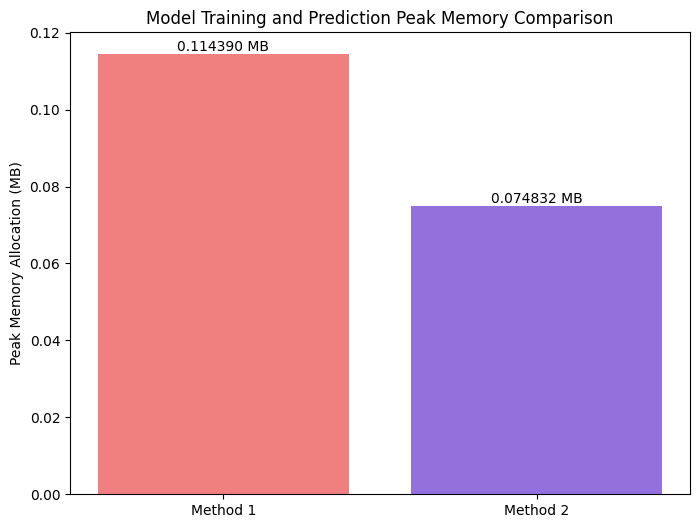
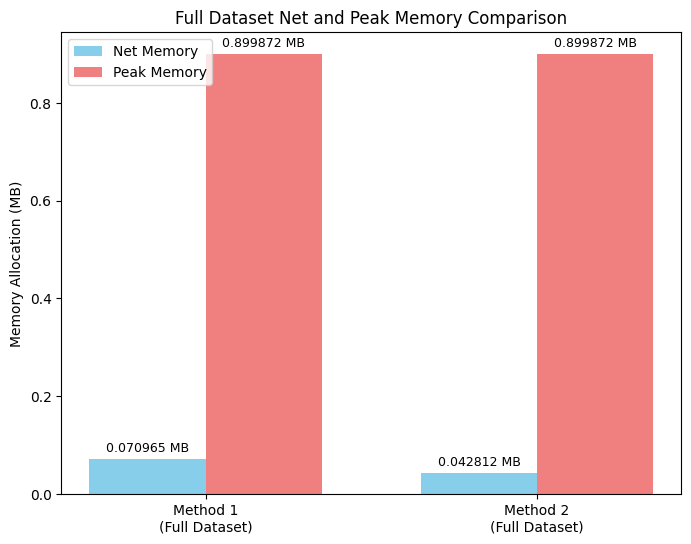
character

diff --git a/process_memory.py b/process_memory.py
@@ -18,34 +18,34 @@ def compare_training_memory():
         print("Make sure the 'uploaded' directory contains the expected data.")
         return
 
-    print("Extracting features for Method 1...")
+    print("\n--- Running Method 1 Pipeline ---")
+    print("Extracting features and training model...")
     features1, labels1 = fe1(raw_data_features, raw_data_labels, timestamps)
-
-    print("Extracting features for Method 2...")
-    features2, labels2 = fe2(raw_data_features, raw_data_labels, timestamps)
-
-    iterations = 50
-
-    print(f"\nBenchmarking model training and prediction memory over {iterations} iterations...")
-
-    # Benchmark Method 1
     clf1 = DecisionTreeClassifier()
+    clf1.fit(features1, labels1.ravel())
+
+    print("Benchmarking FULL DATASET feature extraction + inference memory...")
     tracemalloc.start()
-    for _ in range(iterations):
-        clf1.fit(features1, labels1.ravel())
-        clf1.predict(features1)
-    _, peak1 = tracemalloc.get_traced_memory()
+    f1_full, _ = fe1(raw_data_features, raw_data_labels, timestamps)
+    clf1.predict(f1_full)
+    current1, peak1 = tracemalloc.get_traced_memory()
     tracemalloc.stop()
+    current_mb_1 = current1 / (1024 * 1024)
     peak_mb_1 = peak1 / (1024 * 1024)
 
-    # Benchmark Method 2
+    print("\n--- Running Method 2 Pipeline ---")
+    print("Extracting features and training model...")
+    features2, labels2 = fe2(raw_data_features, raw_data_labels, timestamps)
     clf2 = DecisionTreeClassifier()
+    clf2.fit(features2, labels2.ravel())
+
+    print("Benchmarking FULL DATASET feature extraction + inference memory...")
     tracemalloc.start()
-    for _ in range(iterations):
-        clf2.fit(features2, labels2.ravel())
-        clf2.predict(features2)
-    _, peak2 = tracemalloc.get_traced_memory()
+    f2_full, _ = fe2(raw_data_features, raw_data_labels, timestamps)
+    clf2.predict(f2_full)
+    current2, peak2 = tracemalloc.get_traced_memory()
     tracemalloc.stop()
+    current_mb_2 = current2 / (1024 * 1024)
     peak_mb_2 = peak2 / (1024 * 1024)
 
     print("\n" + "="*50)
@@ -54,33 +54,63 @@ def compare_training_memory():
     print(f"Method 1 (first_process_character) features shape:  {features1.shape}")
     print(f"Method 2 (second_processing_character) features shape: {features2.shape}")
     print("-"*50)
+    print(f"Method 1 Net Memory Allocation:  {current_mb_1:.6f} MB")
     print(f"Method 1 Peak Memory Allocation: {peak_mb_1:.6f} MB")
+    print(f"Method 2 Net Memory Allocation:  {current_mb_2:.6f} MB")
     print(f"Method 2 Peak Memory Allocation: {peak_mb_2:.6f} MB")
     print("="*50)
 
+    print("\n--- Peak Memory Comparison ---")
     if peak_mb_1 > peak_mb_2:
         ratio = peak_mb_1 / peak_mb_2 if peak_mb_2 > 0 else float('inf')
-        print(f"Method 2 uses {ratio:.2f}x less memory than Method 1.")
+        print(f"Method 2 uses {ratio:.2f}x less PEAK memory than Method 1 on full dataset.")
     elif peak_mb_2 > peak_mb_1:
         ratio = peak_mb_2 / peak_mb_1 if peak_mb_1 > 0 else float('inf')
-        print(f"Method 1 uses {ratio:.2f}x less memory than Method 2.")
+        print(f"Method 1 uses {ratio:.2f}x less PEAK memory than Method 2 on full dataset.")
     else:
-        print("Both methods use the same amount of memory.")
+        print("Both methods use the same amount of peak memory.")
+
+    print("\n--- Net (Total Process) Memory Comparison ---")
+    if current_mb_1 > current_mb_2:
+        ratio = current_mb_1 / current_mb_2 if current_mb_2 > 0 else float('inf')
+        print(f"Method 2 uses {ratio:.2f}x less NET memory than Method 1 on full dataset.")
+    elif current_mb_2 > current_mb_1:
+        ratio = current_mb_2 / current_mb_1 if current_mb_1 > 0 else float('inf')
+        print(f"Method 1 uses {ratio:.2f}x less NET memory than Method 2 on full dataset.")
+    else:
+        print("Both methods use the same amount of net memory.")
 
     # Visualization
-    methods = ['Method 1', 'Method 2']
-    memory_usage = [peak_mb_1, peak_mb_2]
+    import numpy as np
+    labels = ['Method 1\n(Full Dataset)', 'Method 2\n(Full Dataset)']
+    current_usage = [current_mb_1, current_mb_2]
+    peak_usage = [peak_mb_1, peak_mb_2]
 
-    plt.figure(figsize=(8, 6))
-    bars = plt.bar(methods, memory_usage, color=['lightcoral', 'mediumpurple'])
-    plt.ylabel('Peak Memory Allocation (MB)')
-    plt.title('Model Training and Prediction Peak Memory Comparison')
+    x = np.arange(len(labels))
+    width = 0.35
+
+    fig, ax = plt.subplots(figsize=(8, 6))
+    rects1 = ax.bar(x - width/2, current_usage, width, label='Net Memory', color='skyblue')
+    rects2 = ax.bar(x + width/2, peak_usage, width, label='Peak Memory', color='lightcoral')
+
+    ax.set_ylabel('Memory Allocation (MB)')
+    ax.set_title('Full Dataset Net and Peak Memory Comparison')
+    ax.set_xticks(x)
+    ax.set_xticklabels(labels)
+    ax.legend()
 
     # Add values on top of bars
-    for bar in bars:
-        yval = bar.get_height()
-        plt.text(bar.get_x() + bar.get_width()/2, yval, f'{yval:.6f} MB',
-                 ha='center', va='bottom', fontsize=10)
+    def autolabel(rects):
+        for rect in rects:
+            height = rect.get_height()
+            ax.annotate(f'{height:.6f} MB',
+                        xy=(rect.get_x() + rect.get_width() / 2, height),
+                        xytext=(0, 3),
+                        textcoords="offset points",
+                        ha='center', va='bottom', fontsize=9)
+
+    autolabel(rects1)
+    autolabel(rects2)
 
     os.makedirs('./process_time', exist_ok=True)
     save_path = './process_time/processing_memory_table.png'
@@ -90,4 +120,3 @@ def compare_training_memory():
 
 if __name__ == "__main__":
     compare_training_memory()
-

diff --git a/time.py b/time.py
@@ -18,59 +18,55 @@ def compare_training_time():
         print("Make sure the 'uploaded' directory contains the expected data.")
         return
 
-    print("Extracting features for Method 1...")
+    print("\n--- Running Method 1 Pipeline ---")
+    print("Extracting features and training model...")
     features1, labels1 = fe1(raw_data_features, raw_data_labels, timestamps)
-
-    print("Extracting features for Method 2...")
-    features2, labels2 = fe2(raw_data_features, raw_data_labels, timestamps)
-
-    # Define models
     clf1 = DecisionTreeClassifier()
-    clf2 = DecisionTreeClassifier()
+    clf1.fit(features1, labels1.ravel())
 
-    iterations = 50
-
-    print(f"\nBenchmarking model training and prediction time over {iterations} iterations...")
-
-    # Benchmark Method 1
+    print("Benchmarking FULL DATASET feature extraction + inference...")
     start_time_1 = time.time()
-    for _ in range(iterations):
-        clf1.fit(features1, labels1.ravel())
-        clf1.predict(features1)
+    f1_full, _ = fe1(raw_data_features, raw_data_labels, timestamps)
+    clf1.predict(f1_full)
     end_time_1 = time.time()
-    avg_time_1 = (end_time_1 - start_time_1) / iterations
+    avg_time_1 = end_time_1 - start_time_1
 
-    # Benchmark Method 2
+    print("\n--- Running Method 2 Pipeline ---")
+    print("Extracting features and training model...")
+    features2, labels2 = fe2(raw_data_features, raw_data_labels, timestamps)
+    clf2 = DecisionTreeClassifier()
+    clf2.fit(features2, labels2.ravel())
+
+    print("Benchmarking FULL DATASET feature extraction + inference...")
     start_time_2 = time.time()
-    for _ in range(iterations):
-        clf2.fit(features2, labels2.ravel())
-        clf2.predict(features2)
+    f2_full, _ = fe2(raw_data_features, raw_data_labels, timestamps)
+    clf2.predict(f2_full)
     end_time_2 = time.time()
-    avg_time_2 = (end_time_2 - start_time_2) / iterations
+    avg_time_2 = end_time_2 - start_time_2
 
     print("\n" + "="*50)
     print("                   TIME COMPARISON")
     print("="*50)
-    print(f"Method 1 (first_process_character) features shape:  {features1.shape}")
-    print(f"Method 2 (second_processing_character) features shape: {features2.shape}")
+    print(f"Method 1 full features shape:  {features1.shape}")
+    print(f"Method 2 full features shape: {features2.shape}")
     print("-"*50)
-    print(f"Method 1 Avg Model (Train + Predict) Time: {avg_time_1:.6f} seconds")
-    print(f"Method 2 Avg Model (Train + Predict) Time: {avg_time_2:.6f} seconds")
+    print(f"Method 1 Full Dataset (Extract + Predict) Time: {avg_time_1:.6f} seconds")
+    print(f"Method 2 Full Dataset (Extract + Predict) Time: {avg_time_2:.6f} seconds")
     print("="*50)
 
     if avg_time_1 > avg_time_2:
-        print(f"Method 2 is {(avg_time_1/avg_time_2):.2f}x faster than Method 1.")
+        print(f"Method 2 is {(avg_time_1/avg_time_2):.2f}x faster than Method 1 on full dataset.")
     elif avg_time_2 > avg_time_1:
-        print(f"Method 1 is {(avg_time_2/avg_time_1):.2f}x faster than Method 2.")
+        print(f"Method 1 is {(avg_time_2/avg_time_1):.2f}x faster than Method 2 on full dataset.")
 
     # Visualization
-    methods = ['Method 1', 'Method 2']
+    methods = ['Method 1\n(Full Dataset)', 'Method 2\n(Full Dataset)']
     times = [avg_time_1, avg_time_2]
 
     plt.figure(figsize=(8, 6))
     bars = plt.bar(methods, times, color=['skyblue', 'lightgreen'])
-    plt.ylabel('Average Time (Seconds)')
-    plt.title('Model Training and Prediction Time Comparison')
+    plt.ylabel('Total Time (Seconds)')
+    plt.title('Full Dataset Total Time (Extract + Predict)')
 
     # Add values on top of bars
     for bar in bars:

diff --git a/second_processing_character.py b/second_processing_character.py
@@ -1,8 +1,6 @@
 import os
 import numpy as np
-import matplotlib.pyplot as plt
 from collections import Counter
-from sklearn.ensemble import RandomForestClassifier
 
 def feature_extraction(raw_data_features, raw_data_labels, timestamps):
   """    raw_data_features: The fourth column is the barometer data.
@@ -62,87 +60,3 @@ def feature_extraction(raw_data_features, raw_data_labels, timestamps):
       labels = np.append(labels, [label], axis=0)
 
   return features, labels
-
-
-def plot_extracted_features(features, labels):
-  """ This function plots the extracted features. The top plot is the slope of accelerometer X-axis data.
-      The middle plot is the slope of barometric pressure data. The bottom plot is the activity label.
-  """
-  plt.figure(figsize=(12, 15))
-
-  # Plot the acceleration X axis slope
-  plt.subplot(6, 1, 1)
-  plt.plot(features[:, 0], label='X-Slope', color='blue')
-  plt.legend(loc='upper right', fontsize=8)
-  plt.xticks(fontsize=8)
-  plt.yticks(fontsize=8)
-  plt.ylabel('Slope', fontsize=8)
-  plt.gca().set_title('Slope of Accelerometer X-axis', fontsize=8)
-
-  # Plot the acceleration Y axis slope
-  plt.subplot(6, 1, 2)
-  plt.plot(features[:, 1], label='Y-Slope', color='cyan')
-  plt.legend(loc='upper right', fontsize=8)
-  plt.xticks(fontsize=8)
-  plt.yticks(fontsize=8)
-  plt.ylabel('Slope', fontsize=8)
-  plt.gca().set_title('Slope of Accelerometer Y-axis', fontsize=8)
-
-  # Plot the acceleration Z axis slope
-  plt.subplot(6, 1, 3)
-  plt.plot(features[:, 2], label='Z-Slope', color='magenta')
-  plt.legend(loc='upper right', fontsize=8)
-  plt.xticks(fontsize=8)
-  plt.yticks(fontsize=8)
-  plt.ylabel('Slope', fontsize=8)
-  plt.gca().set_title('Slope of Accelerometer Z-axis', fontsize=8)
-
-  # Plot the barometer slope
-  plt.subplot(6, 1, 4)
-  plt.plot(features[:, -1], color='orange')
-  plt.xticks(fontsize=8)
-  plt.yticks(fontsize=8)
-  plt.ylabel('mbar/s', fontsize=8)
-  plt.gca().set_title('Rate of Change of Barometric Pressure (Slope)', fontsize=8)
-
-  # Plot one of the FFT Equal Band Powers
-  plt.subplot(6, 1, 5)
-  plt.plot(features[:, 3], color='green')
-  plt.xticks(fontsize=8)
-  plt.yticks(fontsize=8)
-  plt.ylabel('FFT Power', fontsize=8)
-  plt.gca().set_title('FFT Equispaced Band Power (First Band)', fontsize=8)
-
-  plt.subplot(6, 1, 6)
-  plt.plot(labels, color='red')
-  plt.xticks(fontsize=8)
-  plt.yticks(fontsize=8)
-  plt.ylabel('Activity', fontsize=8)
-  plt.gca().set_title('Activity Label', fontsize=8)
-  plt.grid(True)
-  plt.tight_layout()
-
-  os.makedirs('./data_processing', exist_ok=True)
-  plt.savefig('./data_processing/extracted_features.png', bbox_inches='tight')
-  plt.show()
-
-
-def plot_feature_importances(features, labels):
-    clf = RandomForestClassifier(n_estimators=100, random_state=42)
-    clf.fit(features, labels.ravel())
-    importances = clf.feature_importances_
-
-    feature_names = ['X-Slope', 'Y-Slope', 'Z-Slope'] + [f'FFT Band {i}' for i in range(features.shape[1]-4)] + ['Barometer Slope']
-
-    plt.figure(figsize=(10, 6))
-    indices = np.argsort(importances)
-    plt.barh(range(len(indices)), importances[indices], align='center', color='skyblue')
-    plt.yticks(range(len(indices)), [feature_names[i] for i in indices])
-    plt.xlabel('Relative Importance')
-    plt.title('Feature Importances (Random Forest)')
-    plt.tight_layout()
-
-    os.makedirs('./data_processing', exist_ok=True)
-    plt.savefig('./data_processing/feature_importances.png', bbox_inches='tight')
-    plt.show()
-
